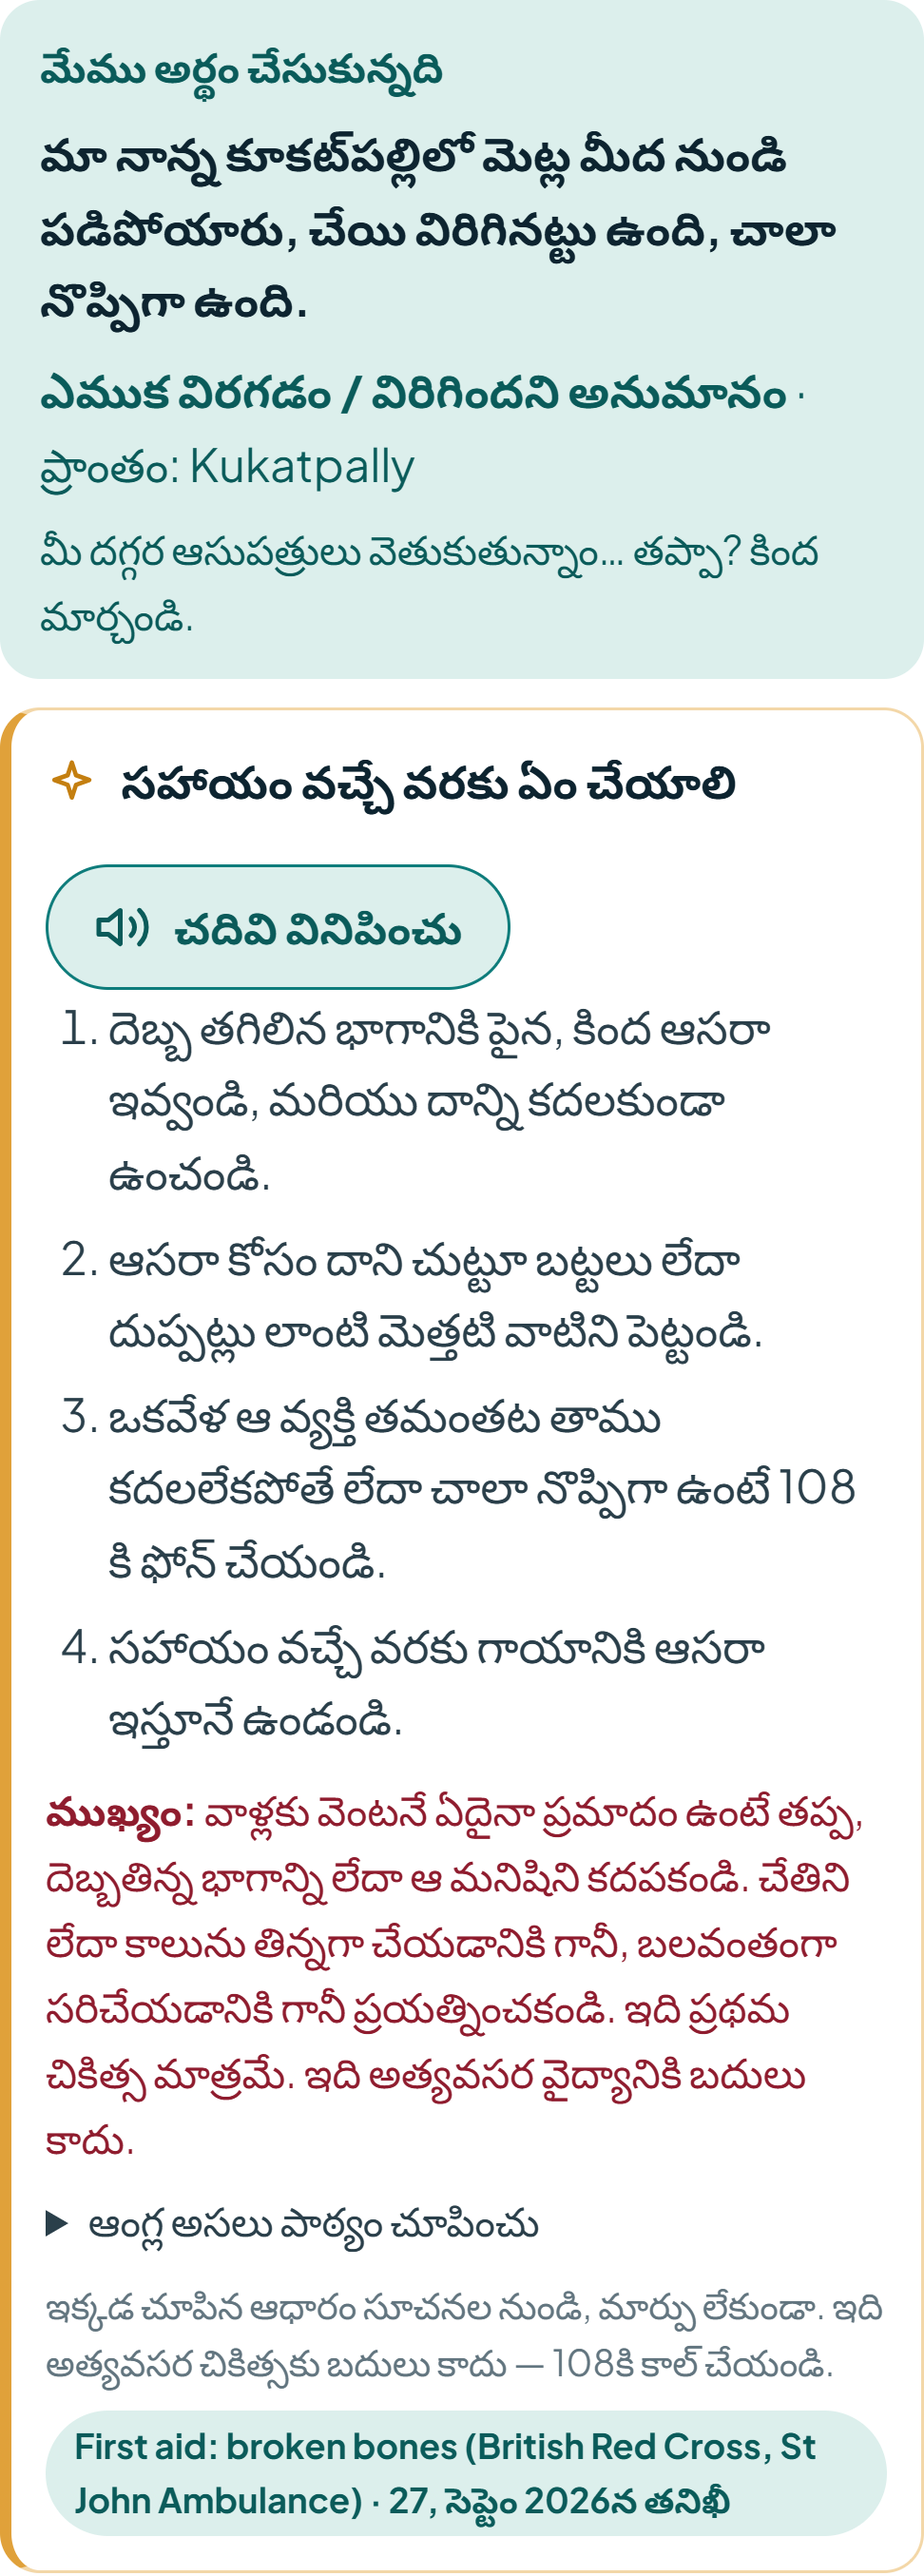
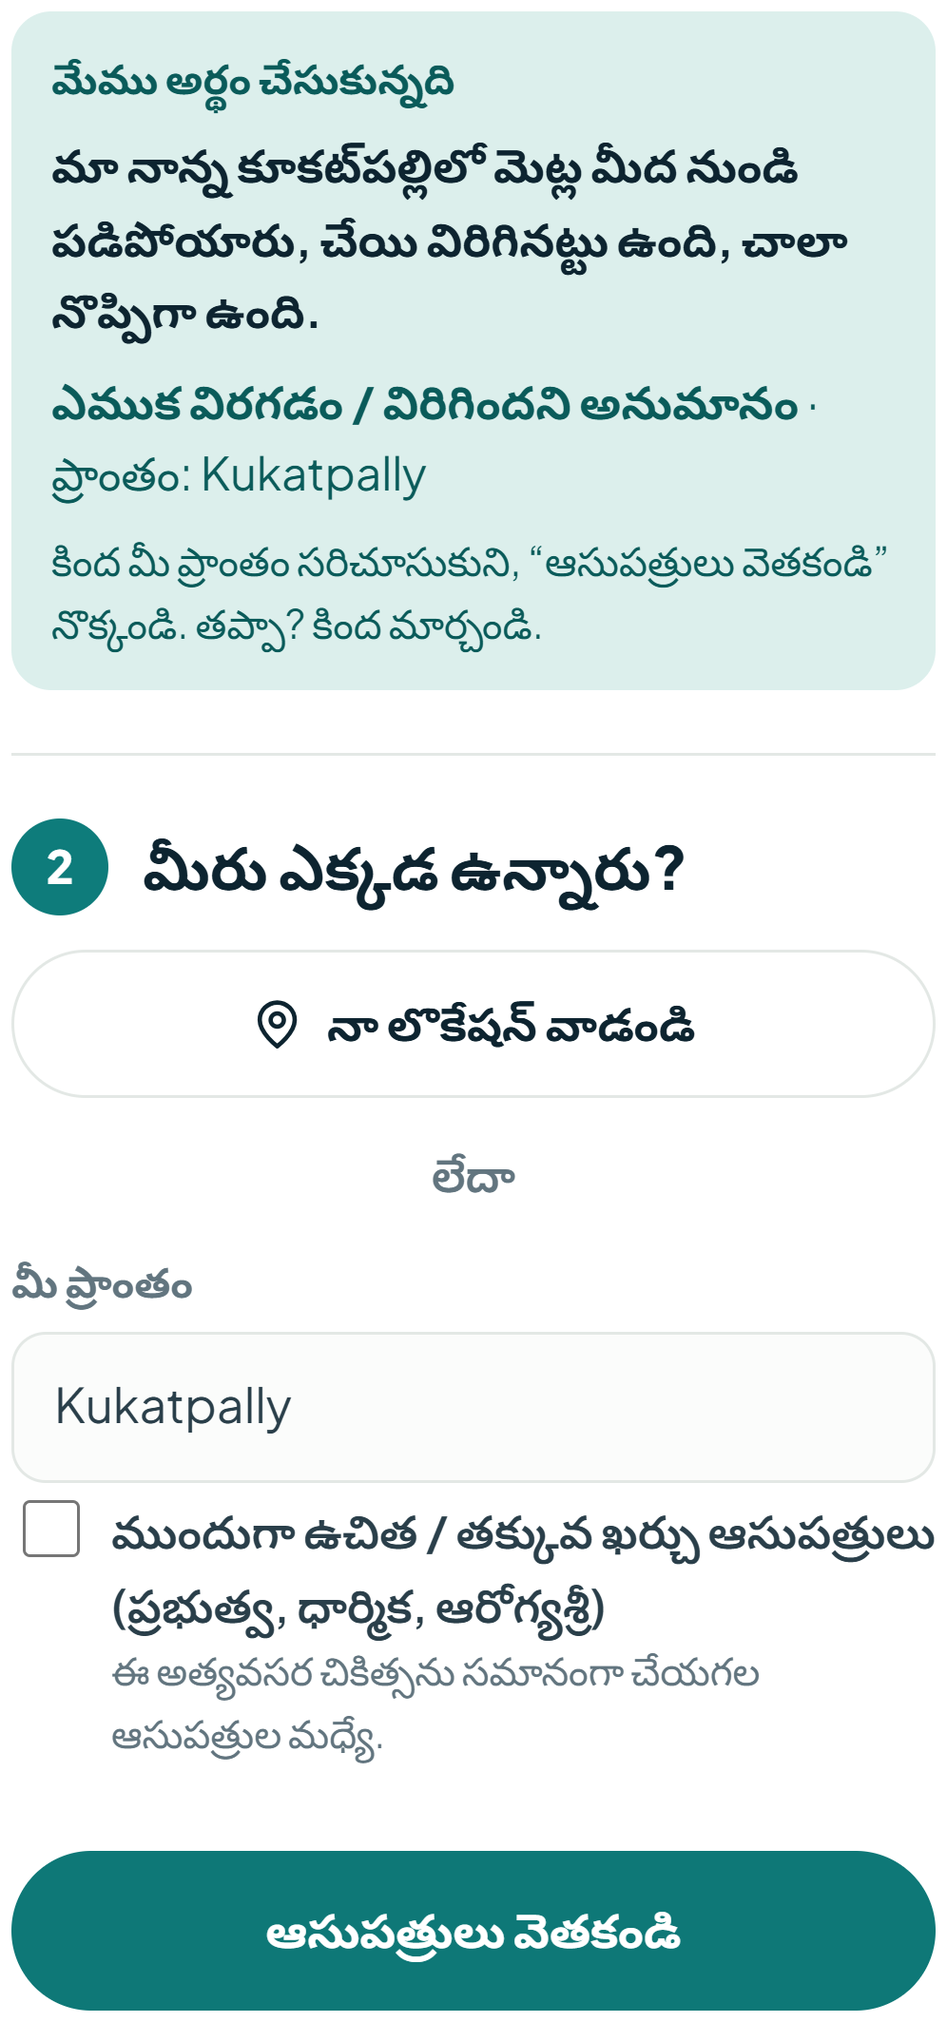
Retake the home, Telugu description and answer screenshots with the examples, the area search and source chips

diff --git a/README.md b/README.md
@@ -24,11 +24,11 @@ Paschim Banga judgment, Aarogyasri, Telangana BOCW Welfare Board) — always wit
 
 | | |
 |---|---|
-| ![Home page on a computer](Raahat%20screenshots/01-home-desktop.png) **1. Home:** 108 first, helplines that call when tapped, then "what happened?" | ![Home page on a phone](Raahat%20screenshots/02-home-phone.png) **2. On a phone:** a 108 bar on every screen |
+| ![Home page on a computer](Raahat%20screenshots/01-home-desktop.png) **1. Home:** 108 first, helplines that call when tapped, then "what happened?" with examples to tap | ![Home page on a phone](Raahat%20screenshots/02-home-phone.png) **2. On a phone:** a 108 bar on every screen |
 | ![Describing the emergency in Telugu](Raahat%20screenshots/03-describe-in-telugu-ai-fills-the-form.png) **3. Describe it in Telugu** (typed or spoken): the AI fills in the emergency and the area for the person to confirm | ![Map and hospital list](Raahat%20screenshots/04-results-map-and-hospital-list.png) **4. Results:** hospitals that can treat it first, colour-coded on the map |
 | ![Hospital card](Raahat%20screenshots/05-hospital-card-with-trust-level.png) **5. Hospital card:** why it matches, Aarogyasri status, when it was checked | ![Closer hospitals not yet checked](Raahat%20screenshots/06-closer-hospitals-not-yet-checked-call-first.png) **6. On the city's edge:** closer hospitals we haven't checked yet, with what to ask when you call |
 | ![Next steps](Raahat%20screenshots/07-next-steps-call-directions-staff-card.png) **7. Your next steps:** first aid, where to go, documents, rights, payment | ![Documents to carry](Raahat%20screenshots/08-documents-to-carry-chemotherapy.png) **8. Documents to carry** (chemotherapy: ration card, Aarogyasri card, Aadhaar, referral letter) |
-| ![Paying for treatment](Raahat%20screenshots/09-paying-with-or-without-aarogyasri-card.png) **9. Paying for treatment,** with or without an Aarogyasri card | ![Answer with citations](Raahat%20screenshots/10-answer-with-citations-and-dates.png) **10. Answers cite their sources,** with the date each was checked |
+| ![Paying for treatment](Raahat%20screenshots/09-paying-with-or-without-aarogyasri-card.png) **9. Paying for treatment,** with or without an Aarogyasri card | ![Answer with citations](Raahat%20screenshots/10-answer-with-citations-and-dates.png) **10. Answers cite their sources,** once each; tap a chip for the date it was checked |
 | ![I'm not sure](Raahat%20screenshots/11-im-not-sure-instead-of-guessing.png) **11. "I'm not sure"** when the sources don't cover a question, instead of guessing | ![Mental health crisis](Raahat%20screenshots/12-mental-health-crisis-helplines.png) **12. Mental health crisis:** 108, Tele-MANAS 14416 and Roshni as call buttons |
 | ![Show to hospital staff](Raahat%20screenshots/13-show-to-hospital-staff-telugu.png) **13. Show to hospital staff:** the patient's needs in Telugu and English | ![Offline mode](Raahat%20screenshots/14-offline-mode-no-internet.png) **14. Offline:** the saved hospital list still works with no internet |
 
